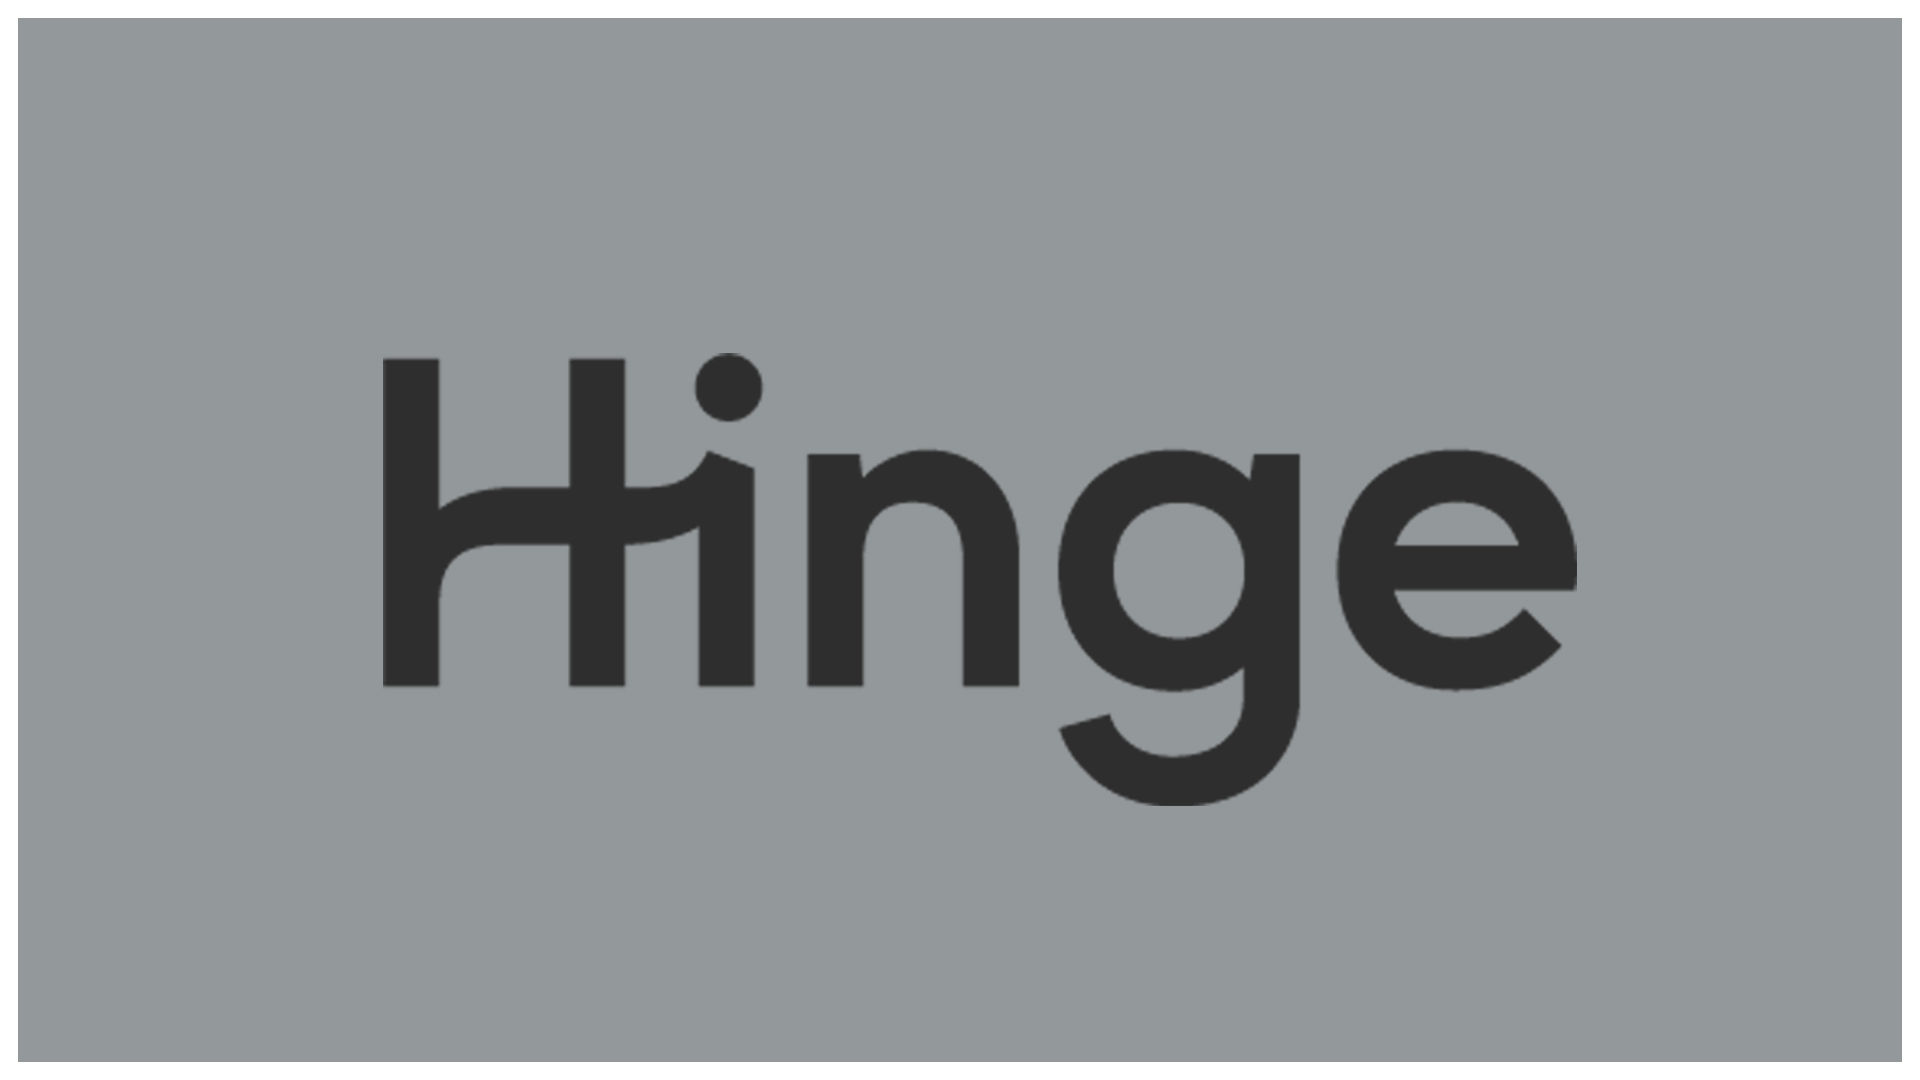
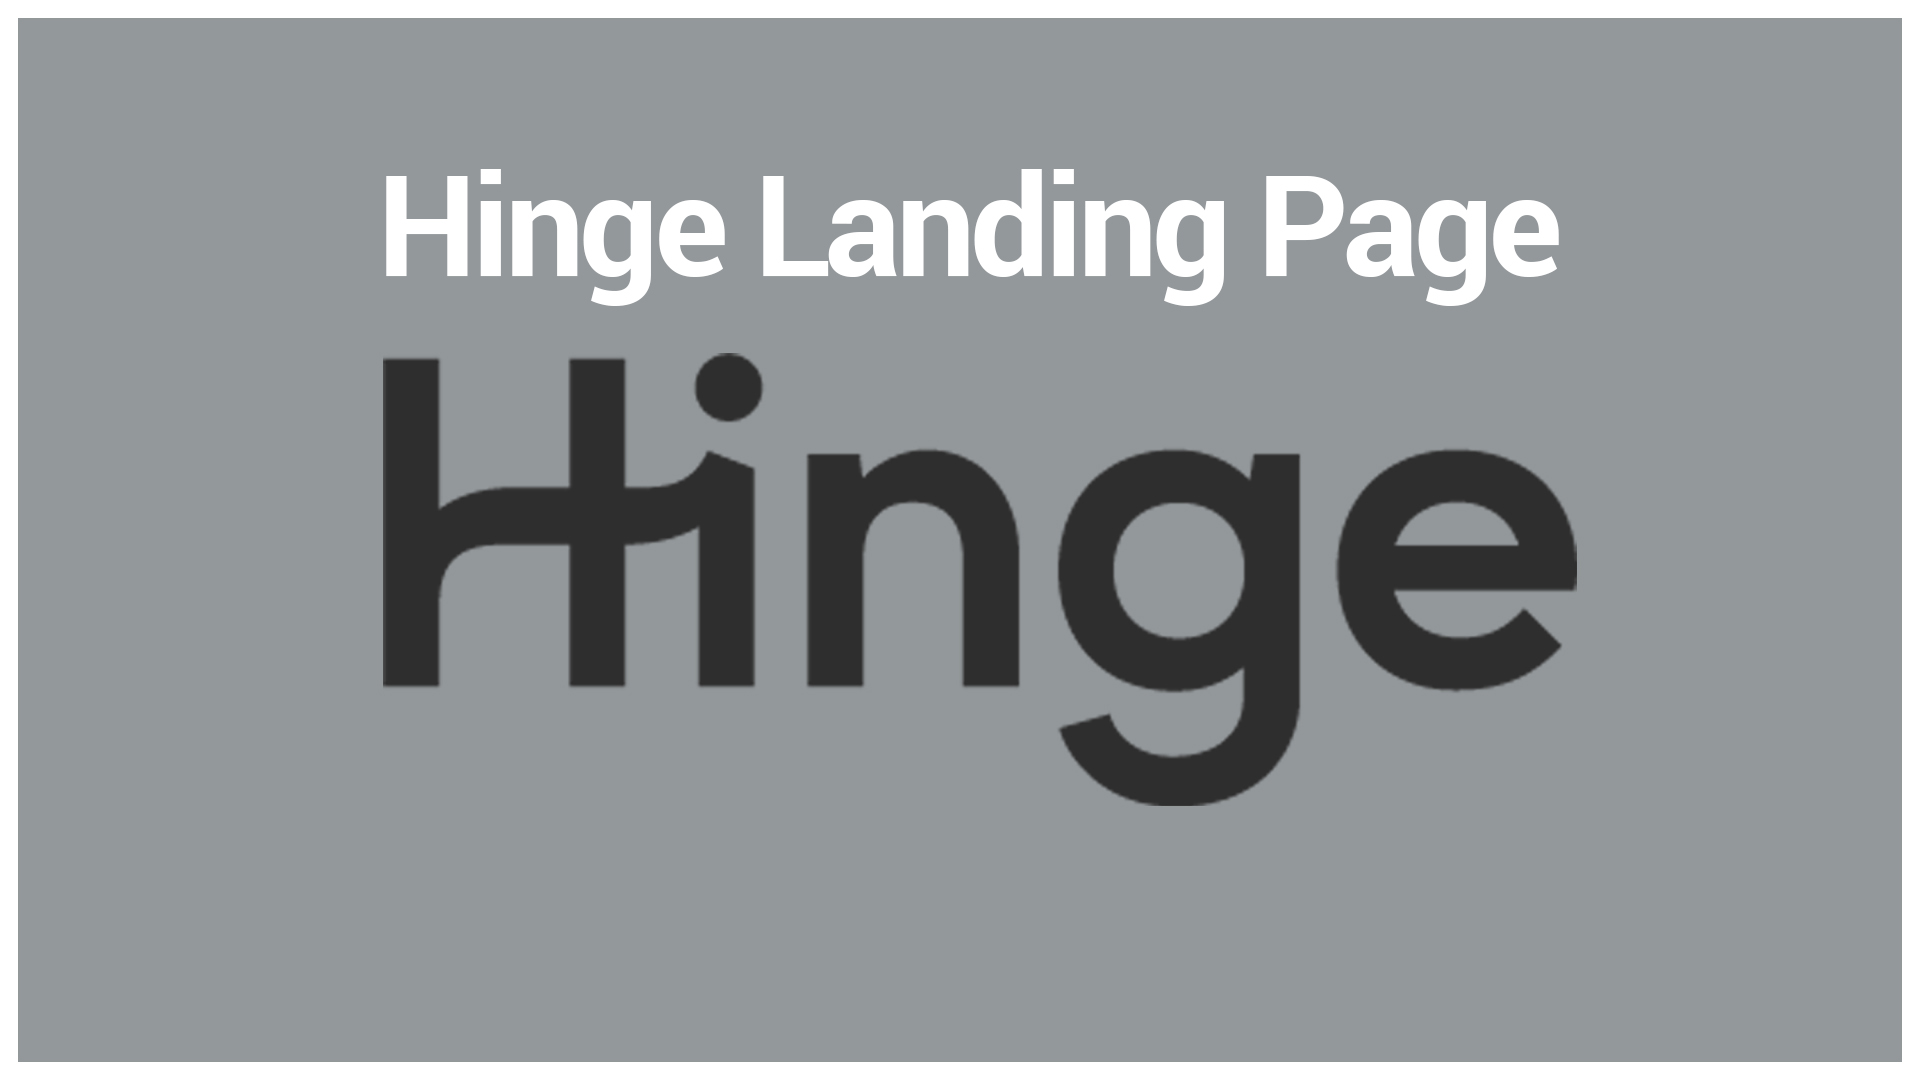
I added a developed email to my portfolio demonstrating my skills

Changed region(s): [[0.1875, 0.1528, 0.8125, 0.3056]]

diff --git a/index.html b/index.html
@@ -698,6 +698,16 @@
               <img class="img-fluid" src="assets/images/portfolio/jamesonbrief.jpg" alt="JamesonBrief">
             </a>
           </div>
+          <div class="col-md-6 col-lg-4">
+            <a class="portfolio-item d-block mx-auto" href="#portfolio-modal-18">
+              <div class="portfolio-item-caption d-flex position-absolute h-100 w-100">
+                <div class="portfolio-item-caption-content my-auto w-100 text-center text-white">
+                  <i class="fa fa-search-plus fa-3x"></i>
+                </div>
+              </div>
+              <img class="img-fluid" src="assets/images/portfolio/emailtemplateportfolioimage.jpg" alt="EmailTemplate">
+            </a>
+          </div>
       </div>
     </div>
   </section>
@@ -766,26 +776,22 @@
       <hr class="star-light mb-5">
       <div class="row">
         <div class="col-lg-4 ml-auto">
-          <p class="lead">Currently I am a Responsive UI | UX developer who is ambitious, persistent, and 
-            dedicated at honing my craft. I have a bachelors degree from West Chester University in Motion 
-            Graphic & UI design as well as a full stack web development certification from the University of 
-            Pennsylvania. I enjoy coding apps, webpages, games, creating databases, and enlightening myself in 
-            all subject matter that encompasses development and the digital world. I have advanced skills in the 
-            Adobe Suite as well as various coding languages. I'm also a photographer and video editor. My goal 
-            in life is to be the best developer I can while crafting extraordinary web and various digital 
-            solutions for my employer. I embrace new challenges and I'm always willing to learn whatever I have to, 
-            to be a team player.
+          <p class="lead">Currently I am a Responsive UI | UX developer who is ambitious, persistent, 
+            and dedicated at honing my craft. I have a bachelors degree from West Chester University 
+            in Motion Graphic & UI design as well as a full stack web development certification 
+            from the University of Pennsylvania. I enjoy coding apps, webpages, games, creating databases, 
+            and enlightening myself in all subject matter that encompasses development and the digital world. 
+            I have advanced skills in the Adobe Suite as well as being knowledgeable in various coding languages. 
+            I'm also a photographer and video editor.
           </p>
         </div>
         <div class="col-lg-4 mr-auto">
-          <p class="lead"> I don't look at failure as being a burden or let it get me down, but rather a 
-              learning experience that I can learn and grow from. Its hard for me to believe skies the limit 
-              when we have footprints on the moon, in life you are only in a race with yourself and you 
-              can only achieve as much as you believe you can. Be somebody. In my freetime I like to go hiking
-              and exploring as well as capture photos and videos of those moments for documentation. I also like to paint 
-              in acrylic and oil as well. Other than that most of my time is spent learning coding and learning new design 
-              techniques. I like to create my own original material as possible so that all of my work is always fresh 
-              and original.
+          <p class="lead"> My goal in life is to be the best developer I can while 
+              crafting extraordinary web and various digital solutions for my employer. I embrace new challenges 
+              and I'm always willing to learn whatever I have to, to be a team player. I don't look at failure 
+              as being a burden or let it get me down, but rather a learning experience that I can learn and grow from. 
+              Its hard for me to believe skies the limit when we have footprints on the moon, in life you are only in 
+              a race with yourself and you can only achieve as much as you believe you can. Be somebody
             <u>You can click the button below to go to my Graphic Design ONLY portfolio.</u>
           </p>
         </div>
@@ -1021,7 +1027,7 @@
               <hr class="star-dark mb-5">
               <img class="img-fluid mb-5" src="assets/images/portfolio/coinspin.gif" alt="CoinCompare" href="#">
               <p class="mb-5">Coin Compare is a project I worked on with three other developers. Coin Compare is an application that was
-                created for people who have little to no knowledge on crypto currency exchanging but would like to get into
+                created for people who have little to no knowledge on crypto currency exchanging, but would like to get into
                 it. This project was created in Visual Studio Code in HTML, CSS, and Javascript as well as AJAX to call API's
                 from Coinlib for back end storage and JSON was also used. Firebase was also used in the creation of this
                 application to store user input data on the contact page as well as the blog page. This project was created
@@ -1583,7 +1589,7 @@
                   </div>
                 </div>
 
-                 <!-- Portfolio Modal 16 JamesonBrief-->
+                 <!-- Portfolio Modal 17 JamesonBrief-->
                  <div class="portfolio-modal mfp-hide" id="portfolio-modal-17">
                   <div class="portfolio-modal-dialog bg-white">
                     <a class="close-button d-none d-md-block portfolio-modal-dismiss" href="#">
@@ -1617,6 +1623,40 @@
                       </div>
                   </div>
                 </div>
+
+                  <!-- Portfolio Modal 18 Zach Wiest Development Email-->
+                  <div class="portfolio-modal mfp-hide" id="portfolio-modal-18">
+                    <div class="portfolio-modal-dialog bg-white">
+                      <a class="close-button d-none d-md-block portfolio-modal-dismiss" href="#">
+                        <a class="open-button d-none d-md-block portfolio-modal-open" href="https://zdubz7.github.io/zachwiestdevelopmentemail/">
+                          <i class="fa fa-3x fa-times"></i>
+                        </a>
+                        <div class="container text-center">
+                          <div class="row">
+                            <div class="col-lg-8 mx-auto">
+                              <h2 class="text-secondary text-uppercase mb-0">Email Template</h2>
+                              <hr class="star-dark mb-5">
+                              <img class="img-fluid mb-5" src="assets/images/portfolio/emailtemplateportfolioimage.jpg" alt="EmailTemplate" href="#">
+                              <p class="mb-5"> This Email Template was created for the purpose of demonstrating that I can design and develop an email 
+                                from scratch. This email was developed inline in HTML and CSS and has cross browser compatability capabilities. The email
+                                images were designed in photoshop and hosted on my Imgur account so that I could set up image links instead of having an 
+                                assets folder with an image folder within it. The code for this brief can be found at https://github.com/Zdubz7/zachwiestdevelopmentemail. 
+                              </p>
+                              </p>
+                
+                              <a class="btn btn-primary btn-lg rounded-pill portfolio-modal-open" href="https://zdubz7.github.io/zachwiestdevelopmentemail/" target="_blank">
+                                <i class="fa fa-open"></i>
+                                Open Project</a>
+                
+                              <a class="btn btn-primary btn-lg rounded-pill portfolio-modal-dismiss" href="#">
+                                <i class="fa fa-close"></i>
+                                Close Project</a>
+                
+                            </div>
+                          </div>
+                        </div>
+                    </div>
+                  </div>
   
 
   <!-- Bootstrap core JavaScript -->
